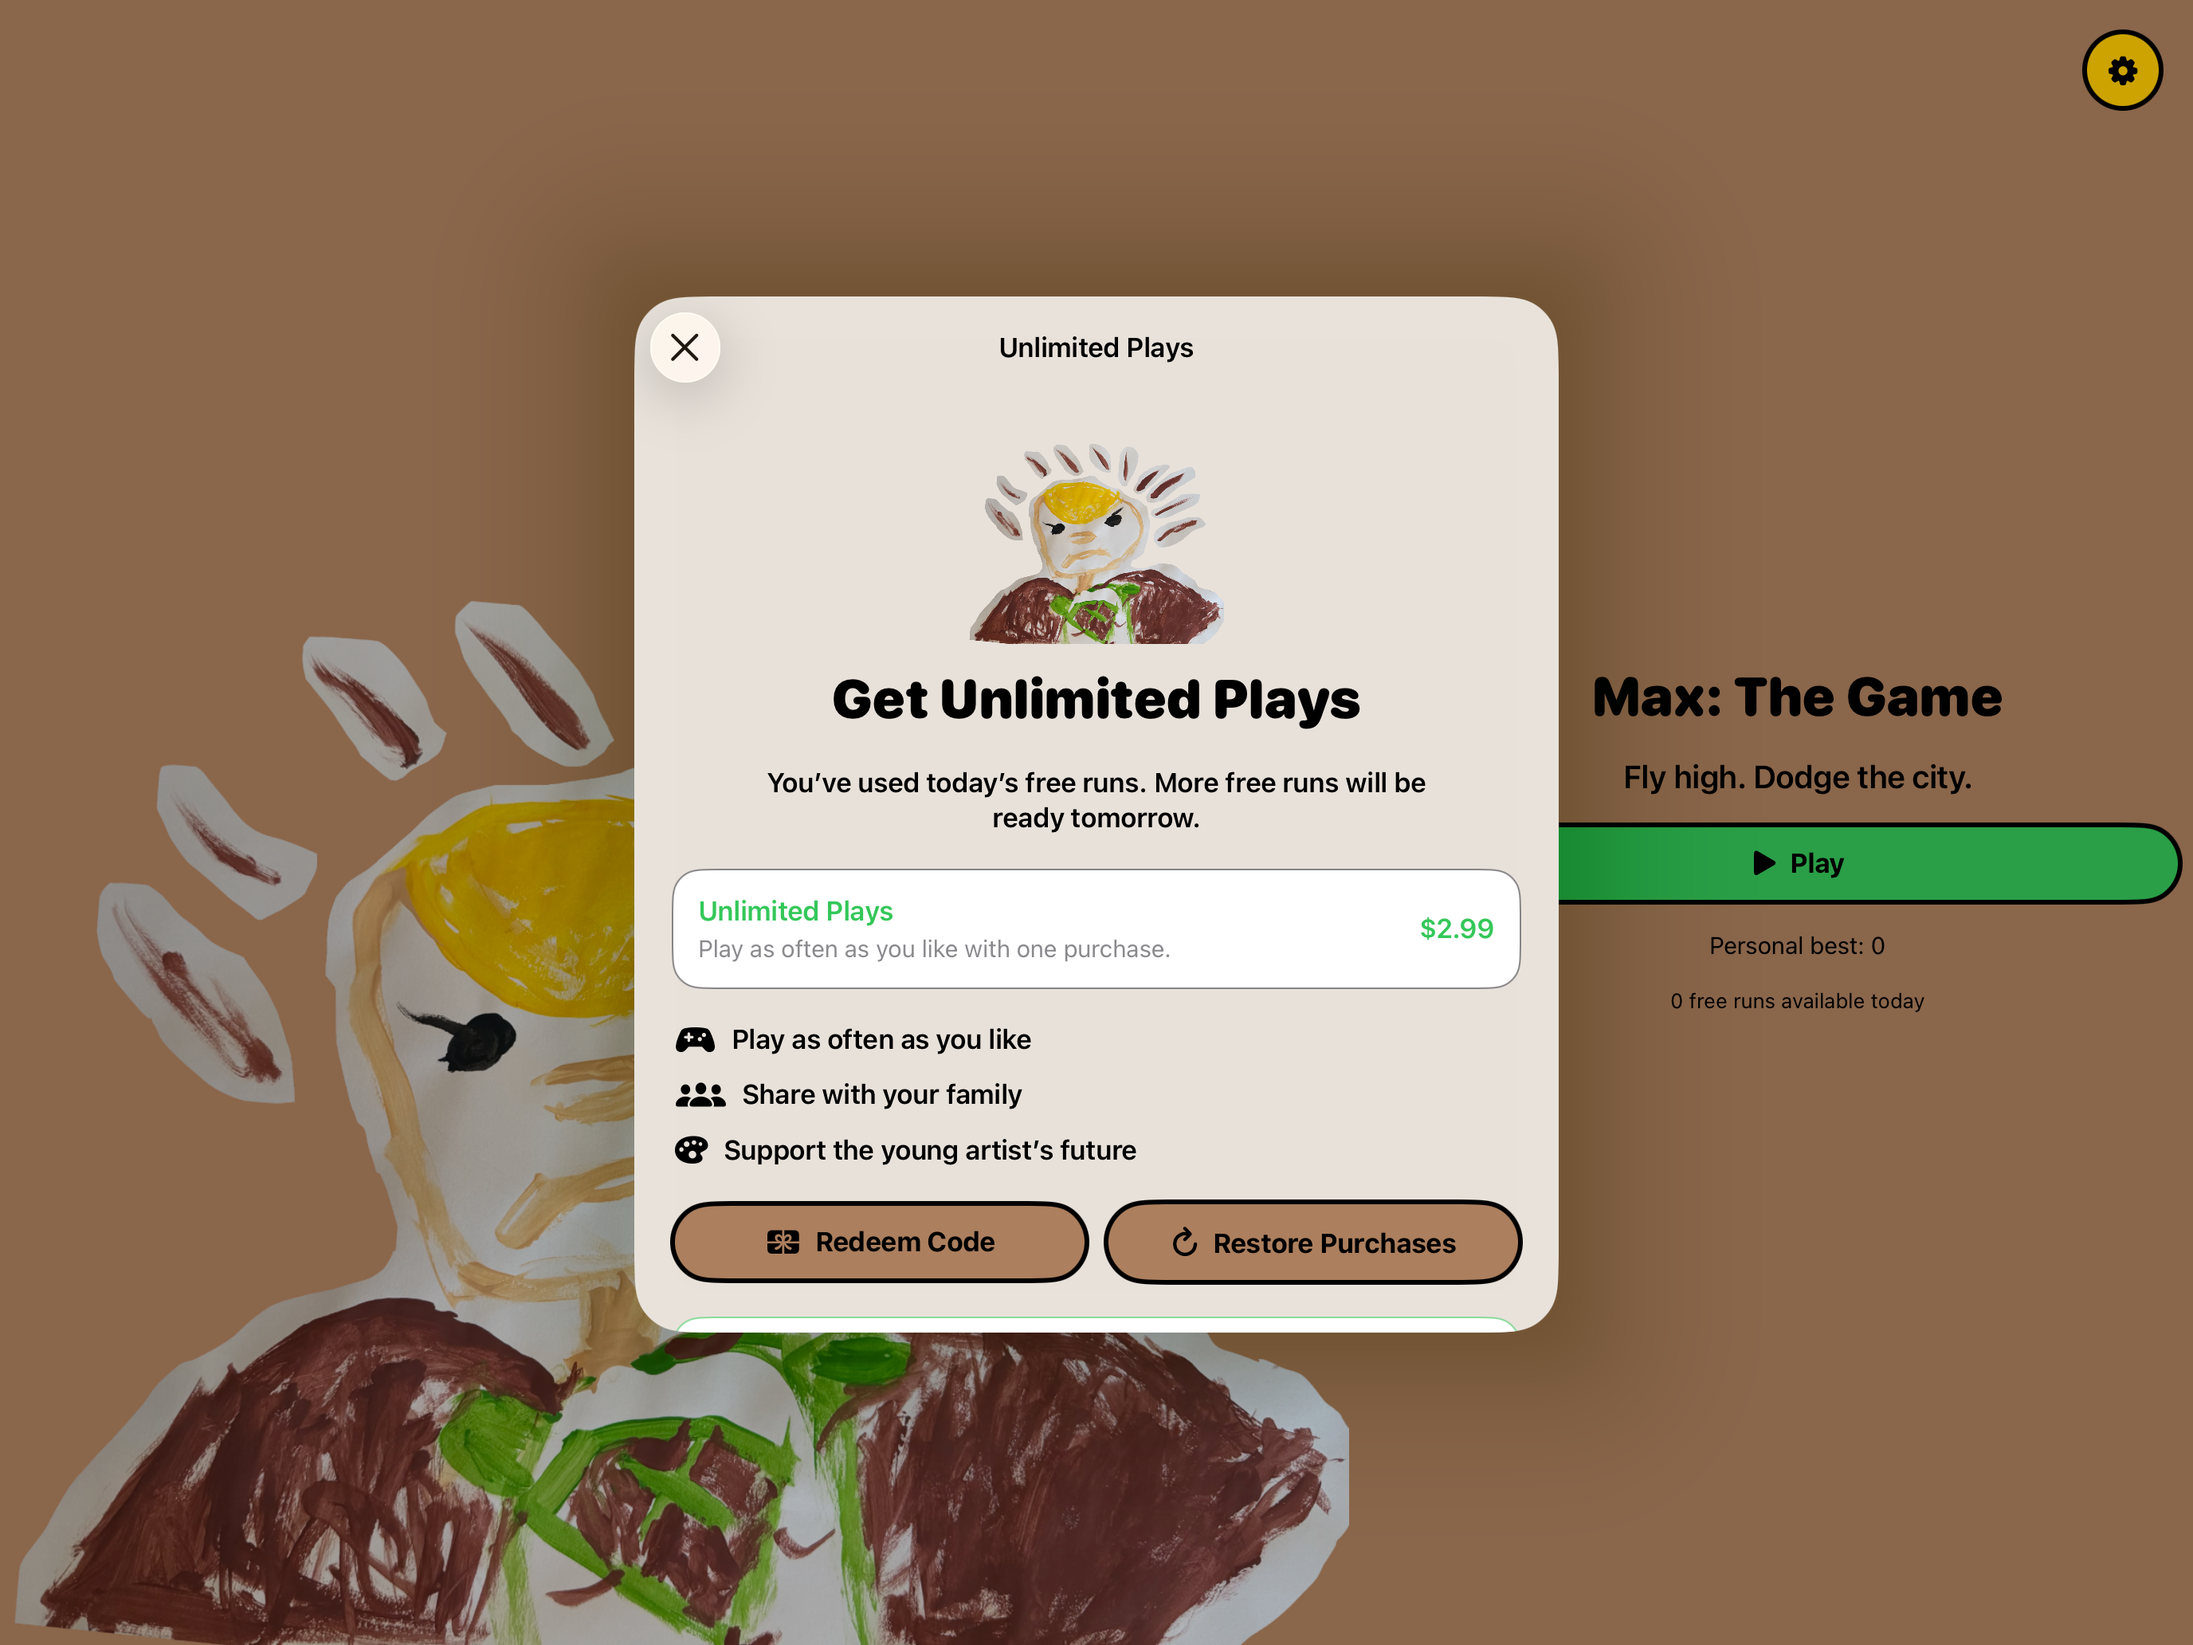
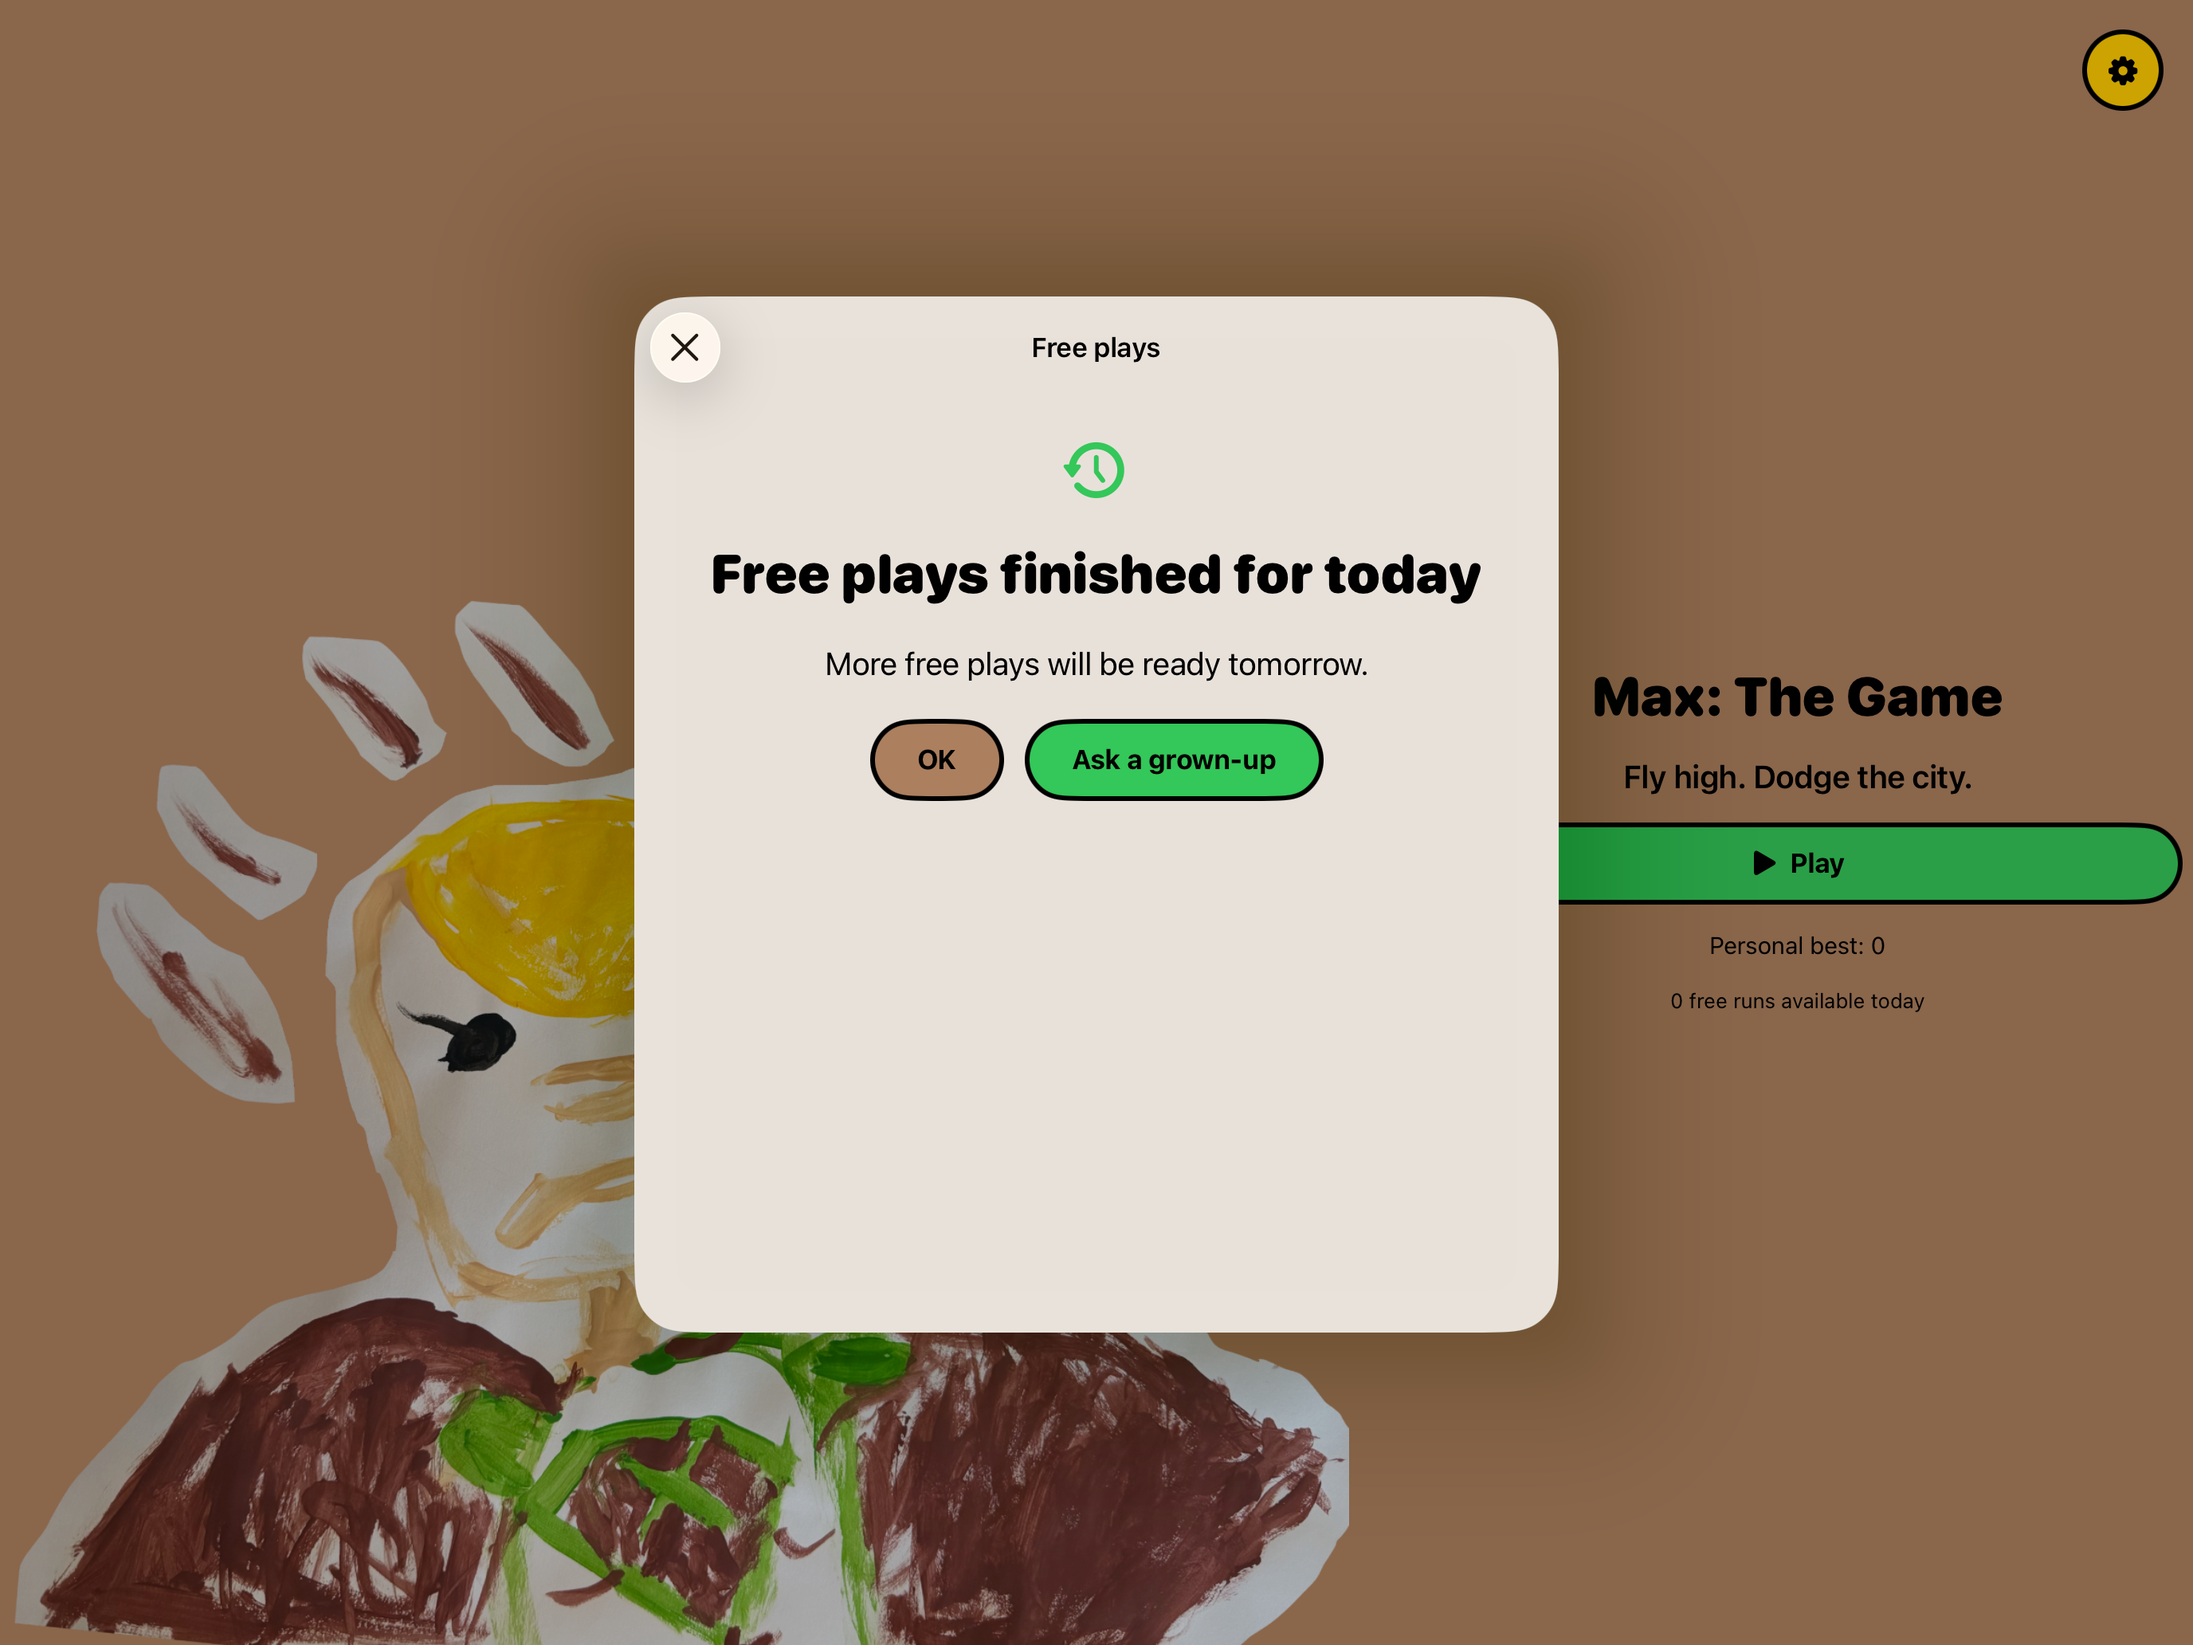
Tweaks on copy and screenshots.

Changed region(s): [[0.2812, 0.2481, 0.7188, 0.8372], [0.4688, 0.186, 0.5312, 0.2171]]

diff --git a/AccessibilityUpTo11/AppsData/MaxTheGame/terms.md b/AccessibilityUpTo11/AppsData/MaxTheGame/terms.md
@@ -33,15 +33,15 @@ The price, purchase, redemption, restoration, and legal links are shown only aft
 
 The app uses Apple's Game Center for leaderboards. Each Game Center visit requires a grown-up to complete the app's parental gate before authentication or leaderboard presentation begins. Game Center availability and use are subject to Apple's terms. The developer cannot guarantee that Game Center or a particular leaderboard will always be available.
 
-## 6. The Young Artist and Savings Commitment
+## 6. The Developer's Son and Savings Commitment
 
-The original artwork was created by a four-year-old artist, who is credited without publishing their name.
+The original artwork was created by the developer's son when he was four. He is credited without publishing his name.
 
-The developer commits all **developer proceeds** from Unlimited Plays to the young artist's future. For this commitment, developer proceeds means every amount Apple actually pays the developer that is attributable to Unlimited Plays, after Apple's commission and any taxes Apple deducts or withholds, refunds, chargebacks, currency conversions, or other App Store adjustments made before payout. It is not the price paid by the customer. The developer does not deduct their own tax liabilities, development time, or other game or business costs from this amount.
+The developer commits all **developer proceeds** from Unlimited Plays to his son's future. For this commitment, developer proceeds means every amount Apple actually pays the developer that is attributable to Unlimited Plays, after Apple's commission and any taxes Apple deducts or withholds, refunds, chargebacks, currency conversions, or other App Store adjustments made before payout. It is not the price paid by the customer. The developer does not deduct their own tax liabilities, development time, or other game or business costs from this amount.
 
-After Apple pays the developer and the payment can be reconciled to Unlimited Plays, these proceeds are recorded and set aside. Contributions are normally made quarterly. They may instead be made annually where provider minimums or transaction charges make that more efficient. They are contributed first to the young artist's Junior ISA, subject to its remaining annual subscription allowance, and then to the young artist's Junior SIPP, subject to its remaining contribution limits, tax-relief eligibility, and provider rules. If those accounts cannot accept the full amount, the balance remains set aside for the young artist until it can be contributed to an eligible account held for their benefit. The same commitment continues if age or rule changes require a successor or alternative account.
+After Apple pays the developer and the payment can be reconciled to Unlimited Plays, these proceeds are recorded and set aside. Contributions are normally made quarterly. They may instead be made annually where provider minimums or transaction charges make that more efficient. They are contributed first to his Junior ISA, subject to its remaining annual subscription allowance, and then to his Junior SIPP, subject to its remaining contribution limits, tax-relief eligibility, and provider rules. If those accounts cannot accept the full amount, the balance remains set aside for him until it can be contributed to an eligible account held for his benefit. The same commitment continues if age or rule changes require a successor or alternative account.
 
-This is a personal savings commitment by the developer, not a charitable-donation claim. A purchase does not give the customer any ownership interest in the app, the proceeds, or the young artist's accounts, and it does not entitle the customer to tax relief.
+This is a personal savings commitment by the developer, not a charitable-donation claim. A purchase does not give the customer any ownership interest in the app, the proceeds, or his son's accounts, and it does not entitle the customer to tax relief.
 
 ## 7. Intellectual Property
 

diff --git a/AccessibilityUpTo11/AppsData/MaxTheGame/privacy.md b/AccessibilityUpTo11/AppsData/MaxTheGame/privacy.md
@@ -33,9 +33,9 @@ Unlimited Plays is processed by Apple through the App Store. The developer does 
 
 The product, price, purchase, redemption, restoration, privacy, and terms actions appear only after a grown-up completes the app's parental gate. Links that leave the app are likewise kept in a gated grown-up area. The gate is an on-device addition question; the answer and successful access are not stored.
 
-## The Young Artist
+## The Developer's Son
 
-The original artwork was created by a four-year-old artist. The app and this website do not publish the artist's name or ask the artist to provide personal information.
+The original artwork was created by the developer's son when he was four. The app and this website do not publish his name or ask him to provide personal information.
 
 ## Children's Privacy
 
